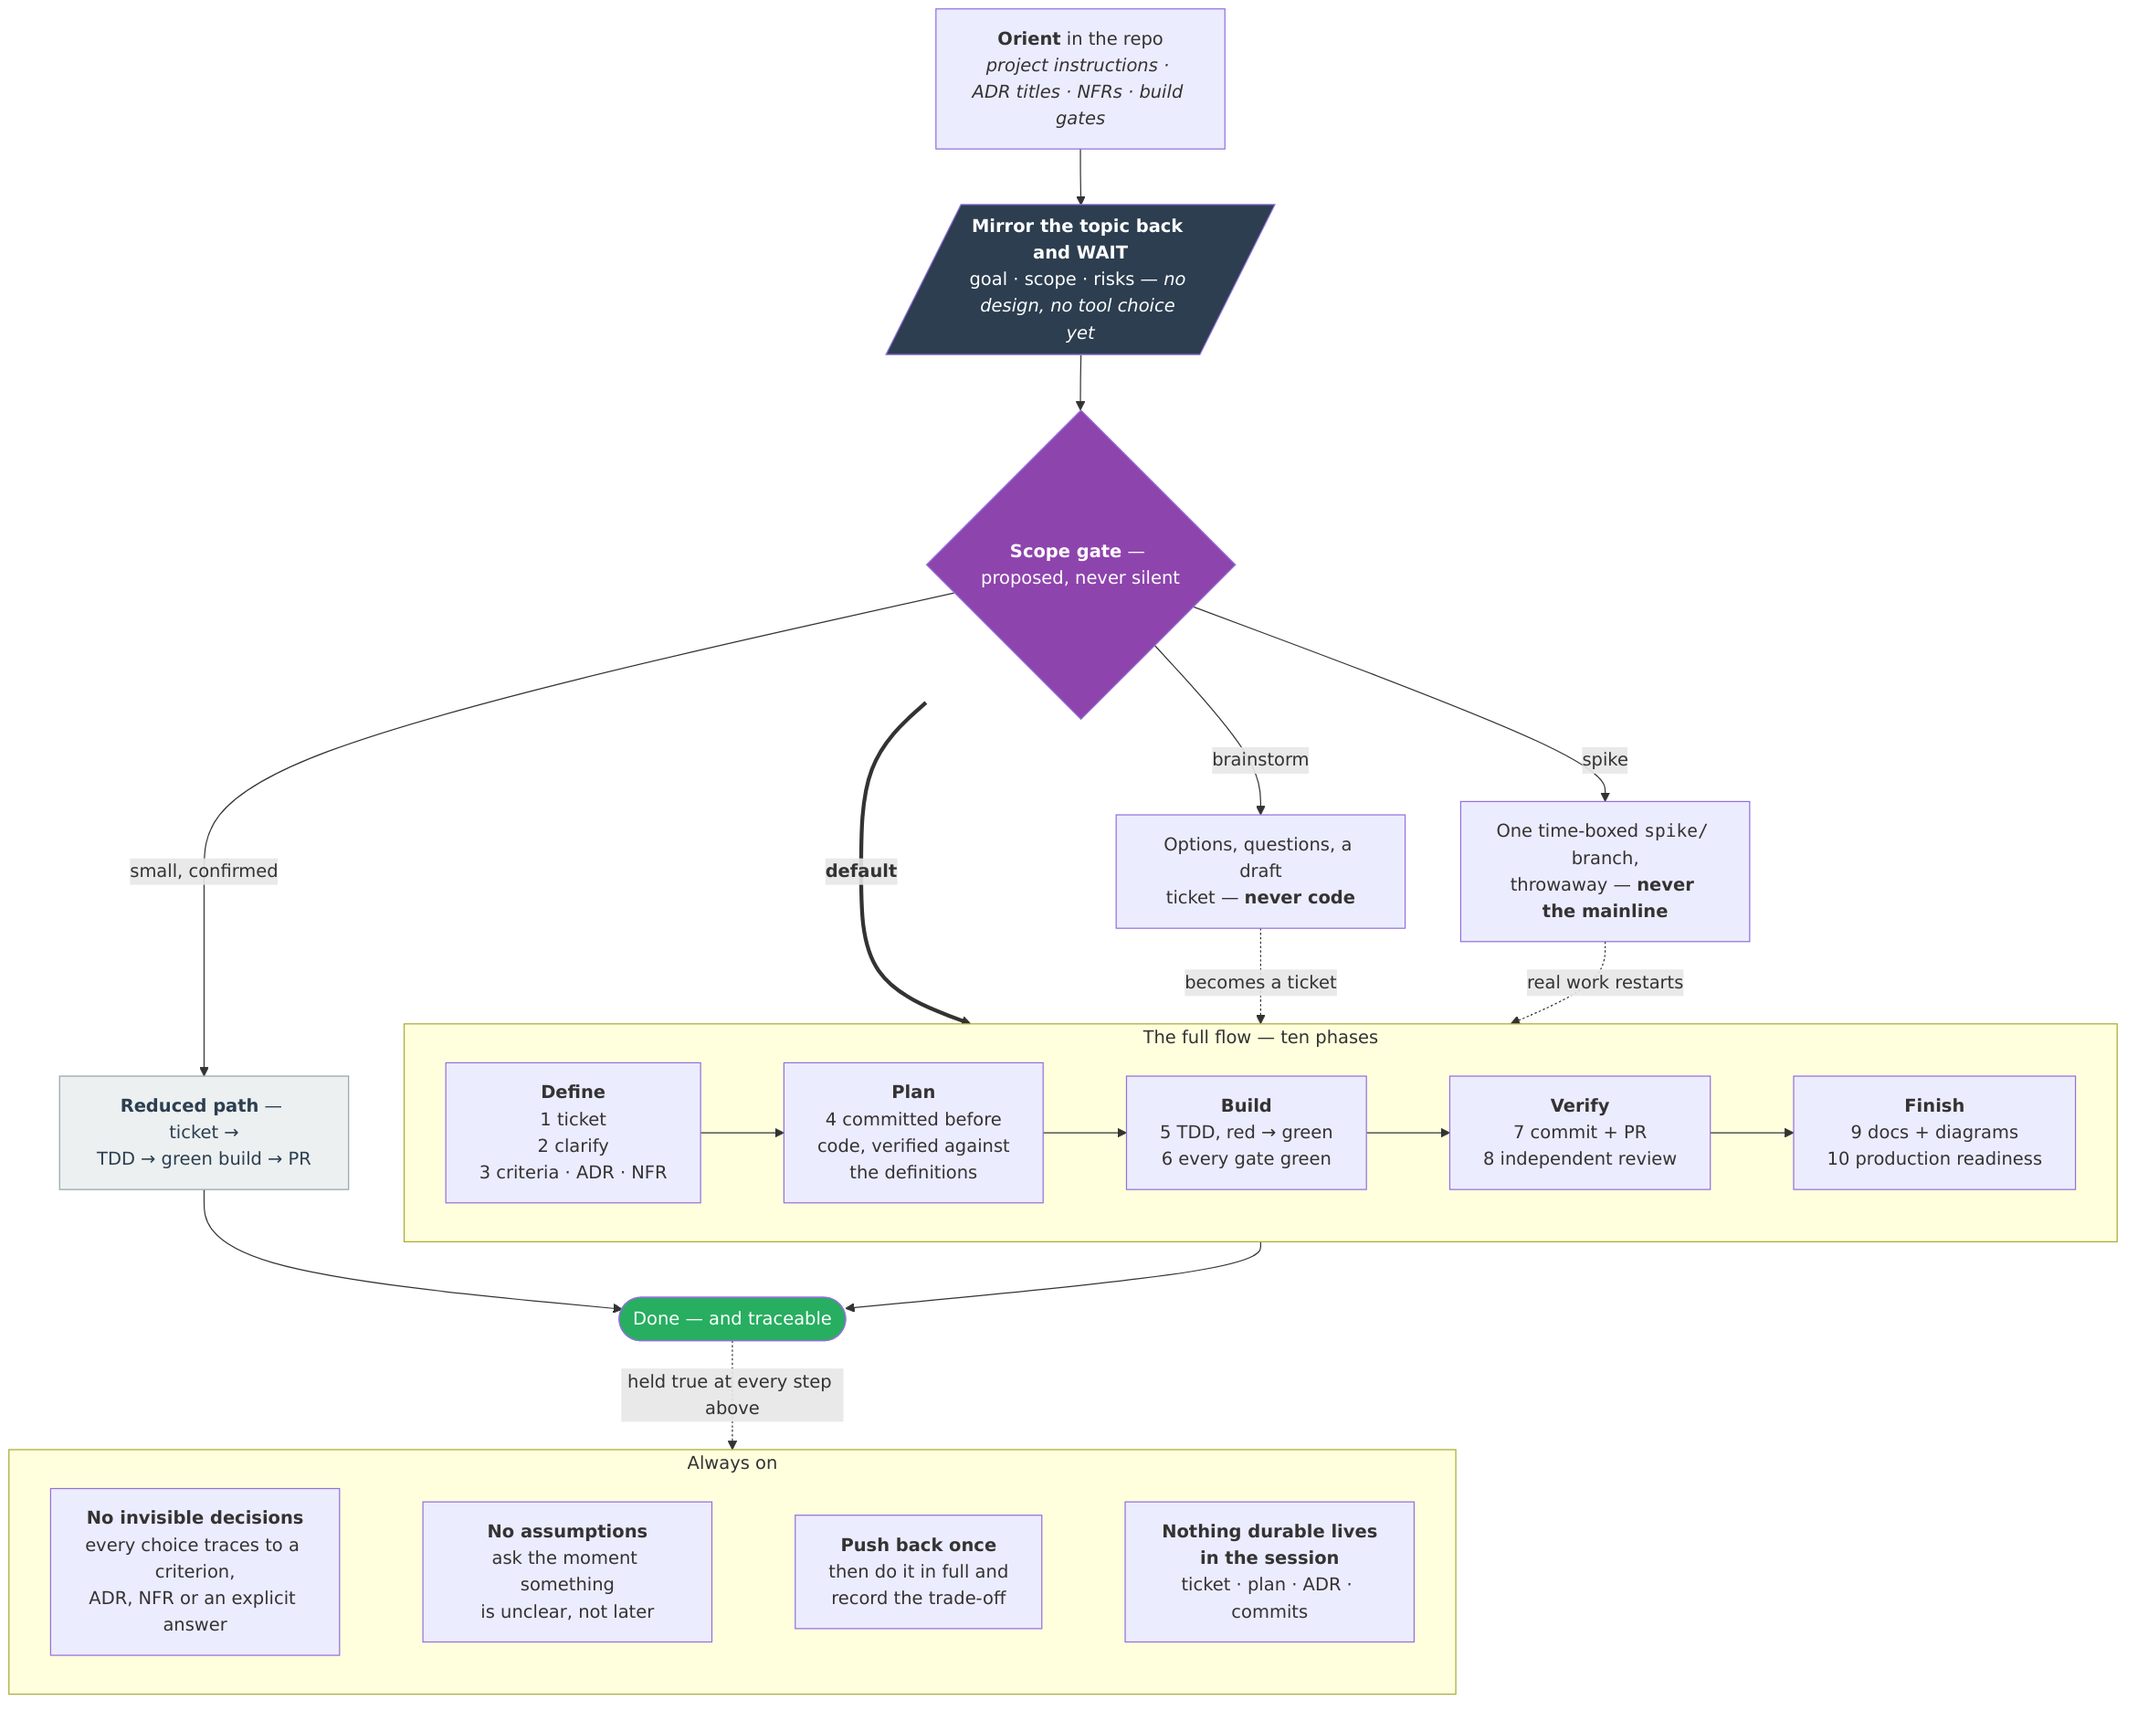
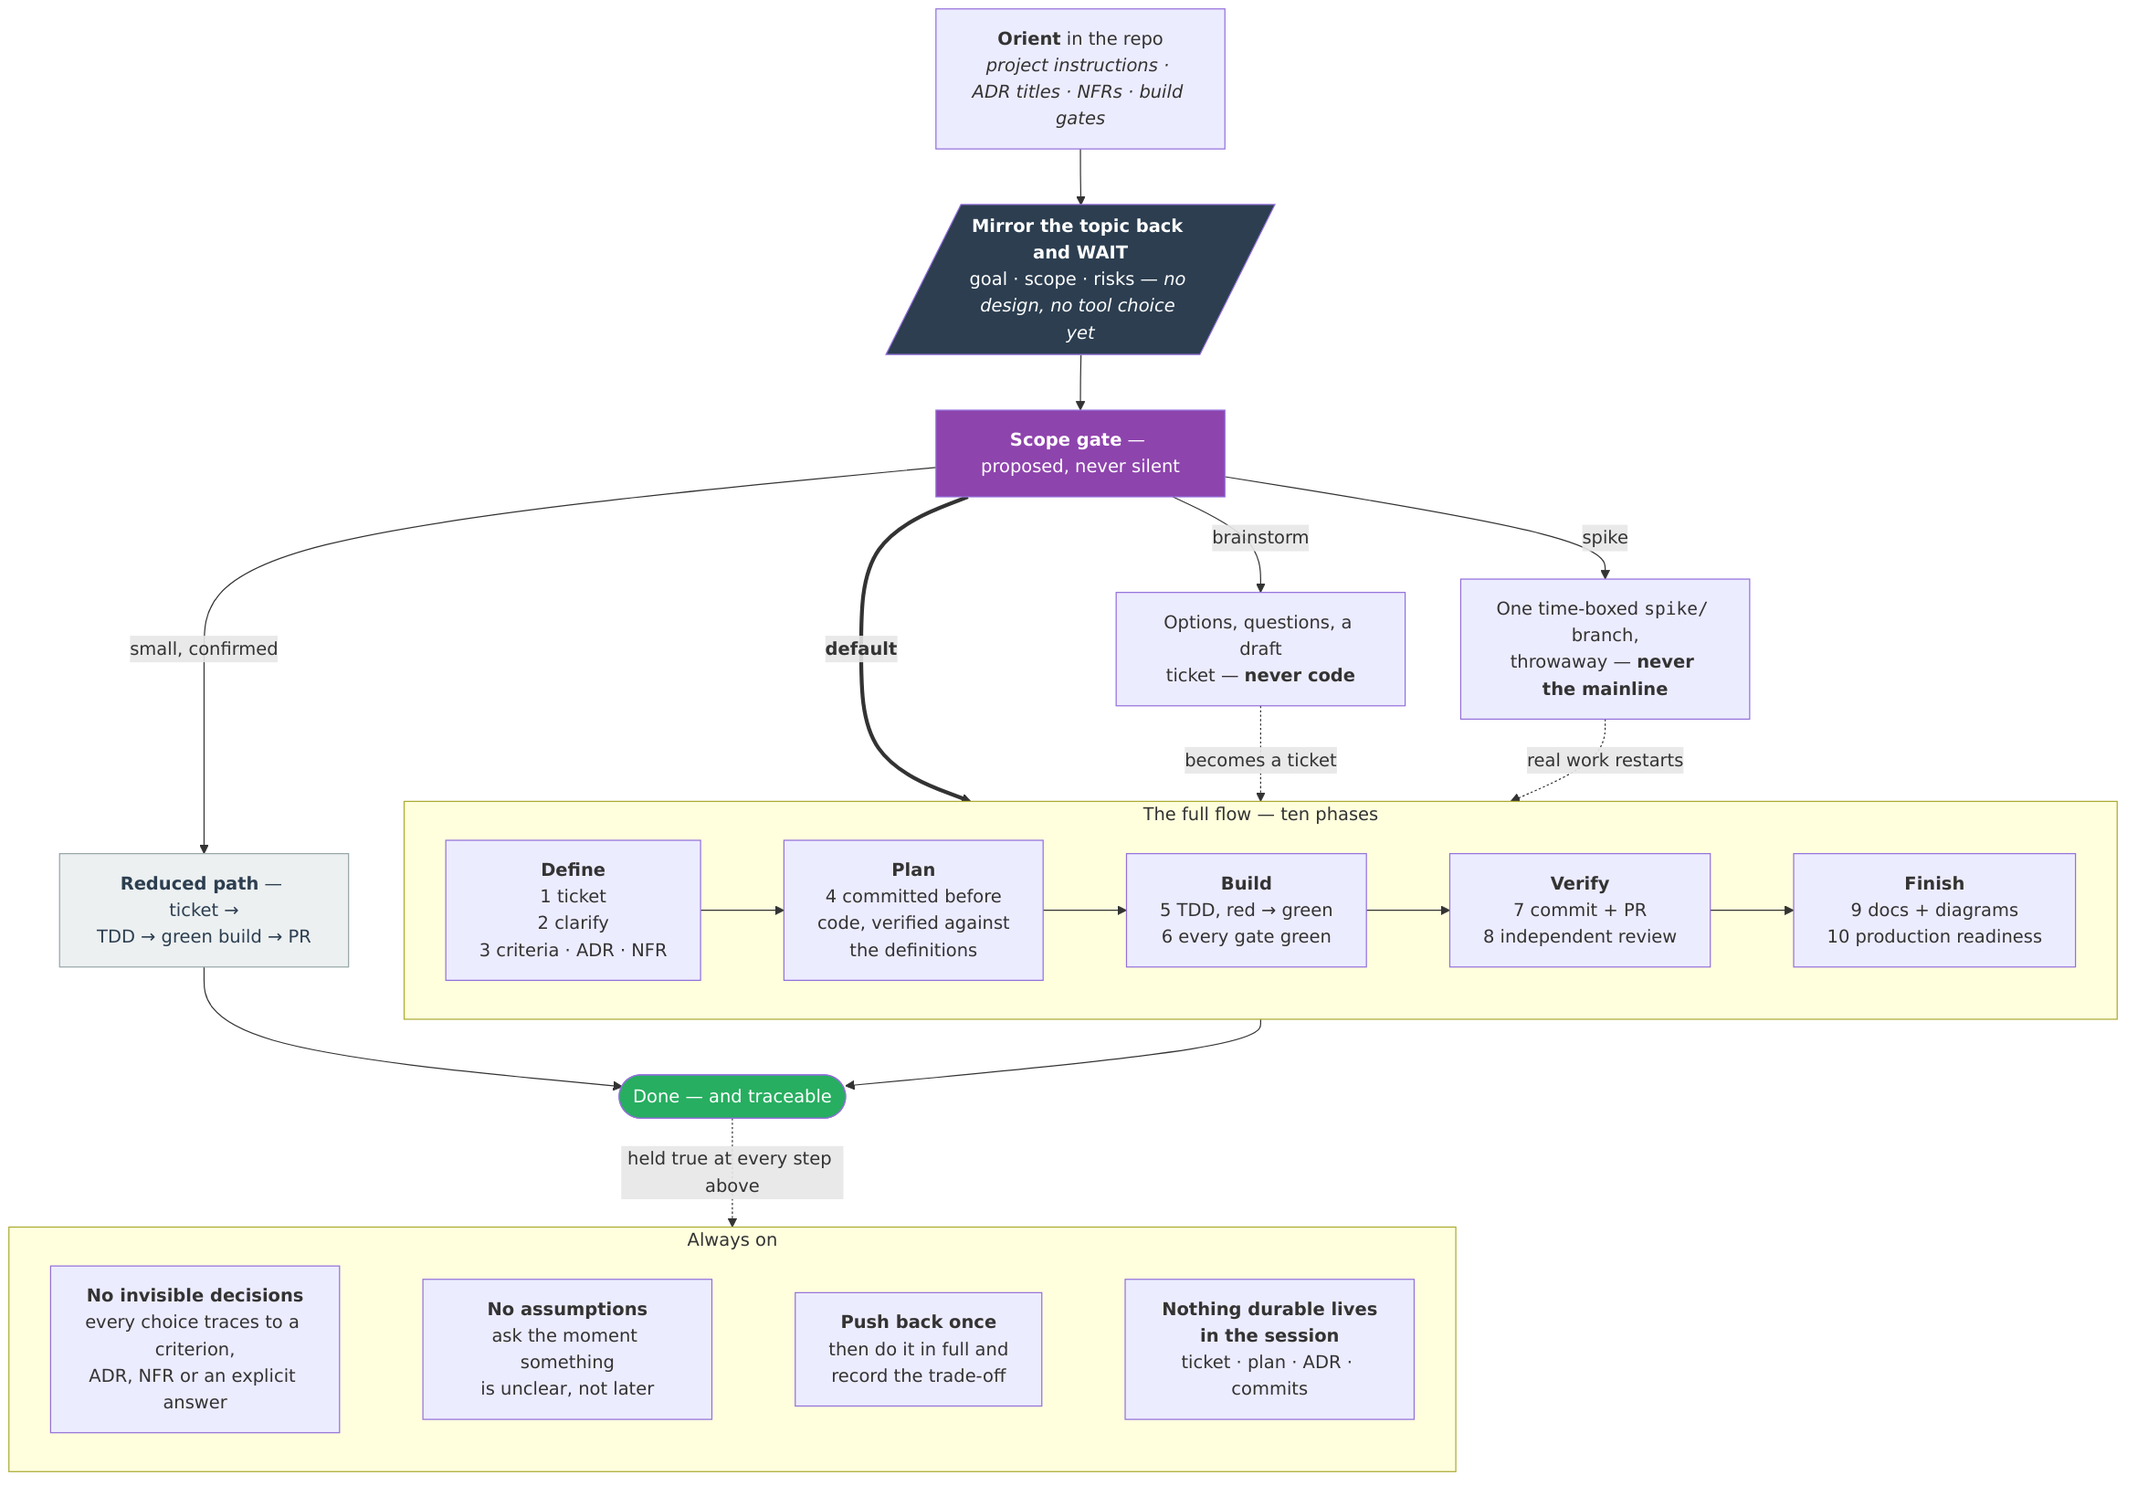
fix: the overview's branch edges detached from the scope gate
A rhombus node has a bounding box larger than the shape drawn inside
it, and dagre starts edges on the box. Branches leaving at a shallow
angle -- "default" worst of all, being the thick one -- therefore began
in the whitespace at a corner, looking severed from the gate.

The gate is a rectangle now, where box and outline coincide, so every
branch starts on the border. It keeps the purple fill that marks it as
a gate, and the diagram lost 246px in the process.

Also pointed the three edges that entered the phase band at Define
rather than at the subgraph itself; dagre still clips them at the
cluster boundary, but the intent is now in the source.

diff --git a/docs/delivery-flow.md b/docs/delivery-flow.md
@@ -21,22 +21,22 @@ The detail flowcharts declare `layout: elk` in their frontmatter: ELK routes edg
 flowchart TB
     OR["<b>Orient</b> in the repo<br/><i>project instructions · ADR titles · NFRs · build gates</i>"]
     OR --> MI[/"<b>Mirror the topic back and WAIT</b><br/>goal · scope · risks — <i>no design, no tool choice yet</i>"/]
-    MI --> SG{"<b>Scope gate</b> — proposed, never silent"}
+    MI --> SG["<b>Scope gate</b> — proposed, never silent"]
 
     SG -->|brainstorm| EX["Options, questions, a draft<br/>ticket — <b>never code</b>"]
     SG -->|spike| SP["One time-boxed <code>spike/</code> branch,<br/>throwaway — <b>never the mainline</b>"]
     SG -->|"small, confirmed"| RP["<b>Reduced path</b> — ticket →<br/>TDD → green build → PR"]
-    SG ==>|"<b>default</b>"| FULL
+    SG ==>|"<b>default</b>"| DEF
 
-    EX -.->|"becomes a ticket"| FULL
-    SP -.->|"real work restarts"| FULL
+    EX -.->|"becomes a ticket"| DEF
+    SP -.->|"real work restarts"| DEF
 
     subgraph FULL["The full flow — ten phases"]
         direction LR
         DEF["<b>Define</b><br/>1 ticket<br/>2 clarify<br/>3 criteria · ADR · NFR"] --> PLN["<b>Plan</b><br/>4 committed before<br/>code, verified against<br/>the definitions"] --> BLD["<b>Build</b><br/>5 TDD, red → green<br/>6 every gate green"] --> VER["<b>Verify</b><br/>7 commit + PR<br/>8 independent review"] --> FIN["<b>Finish</b><br/>9 docs + diagrams<br/>10 production readiness"]
     end
 
-    FULL --> DONE(["Done — and traceable"])
+    FIN --> DONE(["Done — and traceable"])
     RP --> DONE
     DONE -.->|"held true at every step above"| ALWAYS
 
